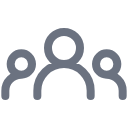
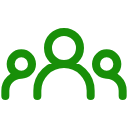
Persist and restore column sort order across restarts for all tables

Changed region(s): [[0.0, 0.2188, 1.0, 0.7812]]

diff --git a/gui/NEMainpage.cpp b/gui/NEMainpage.cpp
@@ -811,7 +811,10 @@ void NEMainpage::refreshAvailablePlayers()
         for (auto it = rows.constBegin(); it != rows.constEnd(); ++it)
             if (!retained.contains(it.key())) delete it.value();
         tree->setSortingEnabled(true);
-        tree->sortItems(tree->sortColumn(), tree->header()->sortIndicatorOrder());
+        const int sortCol = tree->header()->sortIndicatorSection() >= 0
+                ? tree->header()->sortIndicatorSection()
+                : tree->sortColumn();
+        tree->sortItems(sortCol, tree->header()->sortIndicatorOrder());
     }
     filterSavedContacts();
     ui->availablePlayersDescription->setText(tr("Saved chess contacts keeps all saved players, including offline contacts. Available or invited players shows players ready for a game and incoming or outgoing invitations. Right-click or double-click a player for actions."));
@@ -1923,6 +1926,17 @@ void NEMainpage::loadLayoutSettings()
 		}
 	}
 
+	int savedSortCol = Settings->valueFromGroup("RetroChess", "SavedContacts_SortColumn", -1).toInt();
+	int savedSortOrder = Settings->valueFromGroup("RetroChess", "SavedContacts_SortOrder", -1).toInt();
+	if (savedSortCol < 0 || savedSortCol >= ui->savedContacts->columnCount()) {
+		savedSortCol = restoredSaved ? ui->savedContacts->header()->sortIndicatorSection() : 0;
+		savedSortOrder = restoredSaved ? static_cast<int>(ui->savedContacts->header()->sortIndicatorOrder()) : static_cast<int>(Qt::AscendingOrder);
+	}
+	if (savedSortCol < 0 || savedSortCol >= ui->savedContacts->columnCount()) savedSortCol = 0;
+	if (savedSortOrder != Qt::AscendingOrder && savedSortOrder != Qt::DescendingOrder) savedSortOrder = Qt::AscendingOrder;
+	ui->savedContacts->header()->setSortIndicator(savedSortCol, static_cast<Qt::SortOrder>(savedSortOrder));
+	ui->savedContacts->sortItems(savedSortCol, static_cast<Qt::SortOrder>(savedSortOrder));
+
 	ui->savedContacts->setColumnHidden(1, false);
 	const bool hideLastSeen = Settings->valueFromGroup("RetroChess", "SavedContacts_HideLastSeen", false).toBool();
 	ui->savedContacts->setColumnHidden(2, hideLastSeen);
@@ -1993,6 +2007,17 @@ void NEMainpage::loadLayoutSettings()
 	if (ui->availablePlayers->columnWidth(1) < 130) ui->availablePlayers->setColumnWidth(1, 130);
 	if (ui->availablePlayers->columnWidth(2) < 120) ui->availablePlayers->setColumnWidth(2, 120);
 
+	int availSortCol = Settings->valueFromGroup("RetroChess", "AvailablePlayers_SortColumn", -1).toInt();
+	int availSortOrder = Settings->valueFromGroup("RetroChess", "AvailablePlayers_SortOrder", -1).toInt();
+	if (availSortCol < 0 || availSortCol >= ui->availablePlayers->columnCount()) {
+		availSortCol = restoredAvailable ? ui->availablePlayers->header()->sortIndicatorSection() : 1;
+		availSortOrder = restoredAvailable ? static_cast<int>(ui->availablePlayers->header()->sortIndicatorOrder()) : static_cast<int>(Qt::AscendingOrder);
+	}
+	if (availSortCol < 0 || availSortCol >= ui->availablePlayers->columnCount()) availSortCol = 1;
+	if (availSortOrder != Qt::AscendingOrder && availSortOrder != Qt::DescendingOrder) availSortOrder = Qt::AscendingOrder;
+	ui->availablePlayers->header()->setSortIndicator(availSortCol, static_cast<Qt::SortOrder>(availSortOrder));
+	ui->availablePlayers->sortItems(availSortCol, static_cast<Qt::SortOrder>(availSortOrder));
+
 	const bool onlyOnline = Settings->valueFromGroup("RetroChess", "ShowOnlyOnlineContacts", false).toBool();
 	ui->showOnlineplayersButton->setChecked(onlyOnline);
 	ui->showOnlineplayersButton->setToolTip(onlyOnline
@@ -2020,12 +2045,34 @@ void NEMainpage::loadLayoutSettings()
 		}
 	}
 
-	connect(ui->savedContacts->header(), &QHeaderView::sectionResized,
-	        this, &NEMainpage::saveLayoutSettings);
-	connect(ui->availablePlayers->header(), &QHeaderView::sectionResized,
-	        this, &NEMainpage::saveLayoutSettings);
-	connect(ui->active_games->header(), &QHeaderView::sectionResized,
-	        this, &NEMainpage::saveLayoutSettings);
+	int activeSortCol = Settings->valueFromGroup("RetroChess", "ActiveGames_SortColumn", -1).toInt();
+	int activeSortOrder = Settings->valueFromGroup("RetroChess", "ActiveGames_SortOrder", -1).toInt();
+	if (activeSortCol >= 0 && activeSortCol < ui->active_games->columnCount()) {
+		if (activeSortOrder != Qt::AscendingOrder && activeSortOrder != Qt::DescendingOrder) activeSortOrder = Qt::AscendingOrder;
+		ui->active_games->header()->setSortIndicator(activeSortCol, static_cast<Qt::SortOrder>(activeSortOrder));
+		ui->active_games->sortItems(activeSortCol, static_cast<Qt::SortOrder>(activeSortOrder));
+	}
+
+	ui->leaderboardTable->horizontalHeader()->setSectionResizeMode(QHeaderView::Interactive);
+	const QByteArray leaderboardHeader = Settings->valueFromGroup("RetroChess", "LeaderboardHeaderState", QByteArray()).toByteArray();
+	if (!leaderboardHeader.isEmpty()) {
+		ui->leaderboardTable->horizontalHeader()->restoreState(leaderboardHeader);
+	}
+	int lbSortCol = Settings->valueFromGroup("RetroChess", "Leaderboard_SortColumn", -1).toInt();
+	int lbSortOrder = Settings->valueFromGroup("RetroChess", "Leaderboard_SortOrder", -1).toInt();
+	if (lbSortCol >= 0 && lbSortCol < ui->leaderboardTable->columnCount()) {
+		if (lbSortOrder != Qt::AscendingOrder && lbSortOrder != Qt::DescendingOrder) lbSortOrder = Qt::DescendingOrder;
+		ui->leaderboardTable->horizontalHeader()->setSortIndicator(lbSortCol, static_cast<Qt::SortOrder>(lbSortOrder));
+	} else if (leaderboardHeader.isEmpty()) {
+		ui->leaderboardTable->horizontalHeader()->setSortIndicator(2, Qt::DescendingOrder);
+	}
+
+	for (QHeaderView *hdr : {ui->savedContacts->header(), ui->availablePlayers->header(),
+	                         ui->active_games->header(), ui->leaderboardTable->horizontalHeader()}) {
+		connect(hdr, &QHeaderView::sectionResized, this, &NEMainpage::saveLayoutSettings);
+		connect(hdr, &QHeaderView::sectionMoved, this, &NEMainpage::saveLayoutSettings);
+		connect(hdr, &QHeaderView::sortIndicatorChanged, this, &NEMainpage::saveLayoutSettings);
+	}
 	connect(ui->playersSplitter, &QSplitter::splitterMoved,
 	        this, &NEMainpage::saveLayoutSettings);
 }
@@ -2033,10 +2080,27 @@ void NEMainpage::loadLayoutSettings()
 void NEMainpage::saveLayoutSettings()
 {
 	Settings->setValueToGroup("RetroChess", "PlayersSplitterState", ui->playersSplitter->saveState());
+
 	Settings->setValueToGroup("RetroChess", "SavedContactsHeaderState", ui->savedContacts->header()->saveState());
+	Settings->setValueToGroup("RetroChess", "SavedContacts_SortColumn", ui->savedContacts->header()->sortIndicatorSection());
+	Settings->setValueToGroup("RetroChess", "SavedContacts_SortOrder", static_cast<int>(ui->savedContacts->header()->sortIndicatorOrder()));
+
 	Settings->setValueToGroup("RetroChess", "AvailablePlayersHeaderState", ui->availablePlayers->header()->saveState());
+	Settings->setValueToGroup("RetroChess", "AvailablePlayers_SortColumn", ui->availablePlayers->header()->sortIndicatorSection());
+	Settings->setValueToGroup("RetroChess", "AvailablePlayers_SortOrder", static_cast<int>(ui->availablePlayers->header()->sortIndicatorOrder()));
+
 	Settings->setValueToGroup("RetroChess", "ActiveGamesHeaderState", ui->active_games->header()->saveState());
+	Settings->setValueToGroup("RetroChess", "ActiveGames_SortColumn", ui->active_games->header()->sortIndicatorSection());
+	Settings->setValueToGroup("RetroChess", "ActiveGames_SortOrder", static_cast<int>(ui->active_games->header()->sortIndicatorOrder()));
+
+	Settings->setValueToGroup("RetroChess", "LeaderboardHeaderState", ui->leaderboardTable->horizontalHeader()->saveState());
+	Settings->setValueToGroup("RetroChess", "Leaderboard_SortColumn", ui->leaderboardTable->horizontalHeader()->sortIndicatorSection());
+	Settings->setValueToGroup("RetroChess", "Leaderboard_SortOrder", static_cast<int>(ui->leaderboardTable->horizontalHeader()->sortIndicatorOrder()));
+
 	Settings->setValueToGroup("RetroChess", "GameHistoryHeaderState", ui->gameHistory->header()->saveState());
+	Settings->setValueToGroup("RetroChess", "GameHistory_SortColumn", ui->gameHistory->header()->sortIndicatorSection());
+	Settings->setValueToGroup("RetroChess", "GameHistory_SortOrder", static_cast<int>(ui->gameHistory->header()->sortIndicatorOrder()));
+
 	Settings->setValueToGroup("RetroChess", "ShowOnlyOnlineContacts", ui->showOnlineplayersButton->isChecked());
 	Settings->setValueToGroup("RetroChess", "SavedContacts_HideLastSeen", ui->savedContacts->isColumnHidden(2));
 	Settings->setValueToGroup("RetroChess", "SavedContacts_HideHeader", ui->savedContacts->header()->isHidden());
@@ -2180,8 +2244,12 @@ void NEMainpage::setupPlayersTab()
 		showSavedContactsHeaderContextMenu(ui->savedContacts->header()->mapToGlobal(pos));
 	});
 
-	ui->savedContacts->sortItems(0, Qt::AscendingOrder);
-	ui->availablePlayers->sortItems(1, Qt::AscendingOrder);
+	ui->savedContacts->sortItems(
+	        ui->savedContacts->header()->sortIndicatorSection(),
+	        ui->savedContacts->header()->sortIndicatorOrder());
+	ui->availablePlayers->sortItems(
+	        ui->availablePlayers->header()->sortIndicatorSection(),
+	        ui->availablePlayers->header()->sortIndicatorOrder());
 	for (QTreeWidget *tree : {ui->savedContacts, ui->availablePlayers}) {
 		tree->setContextMenuPolicy(Qt::CustomContextMenu);
 		connect(tree, &QTreeWidget::customContextMenuRequested,
